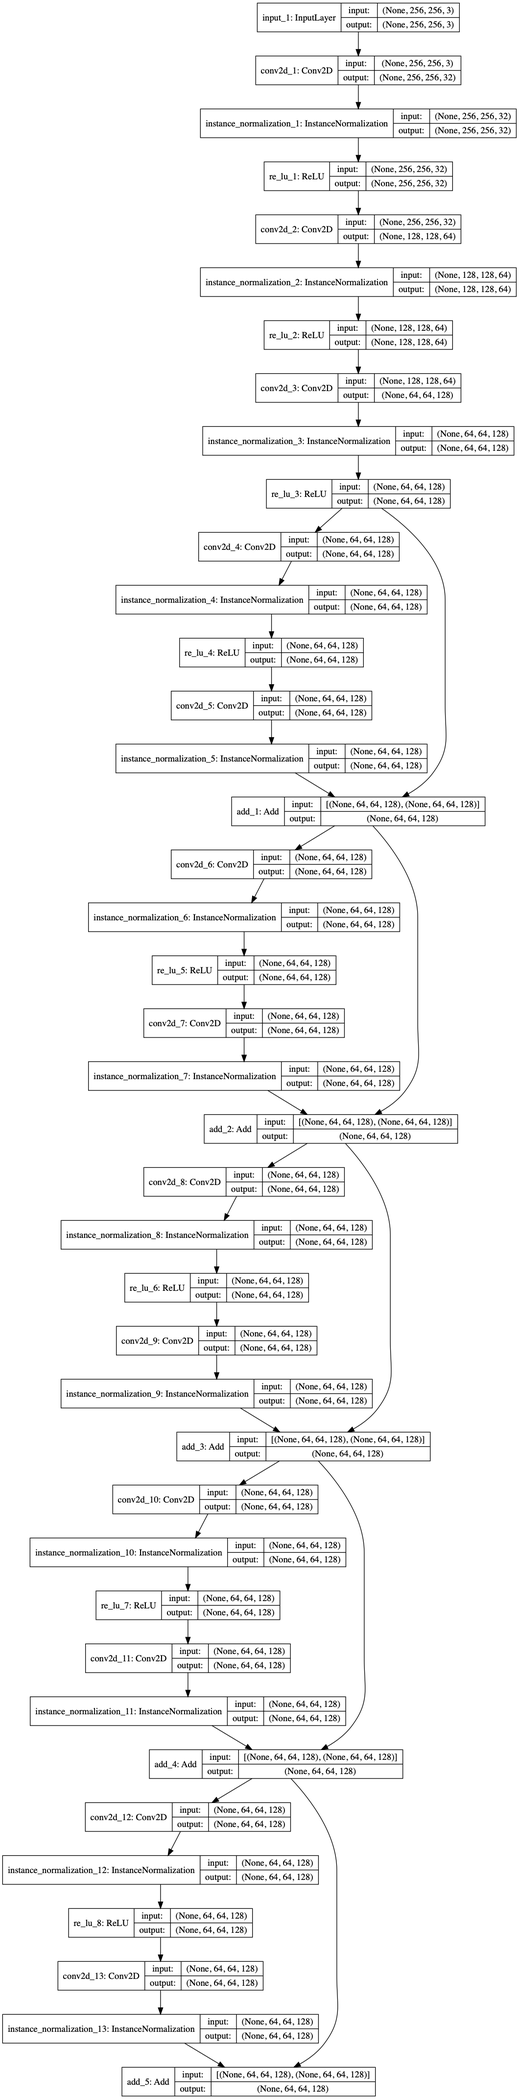
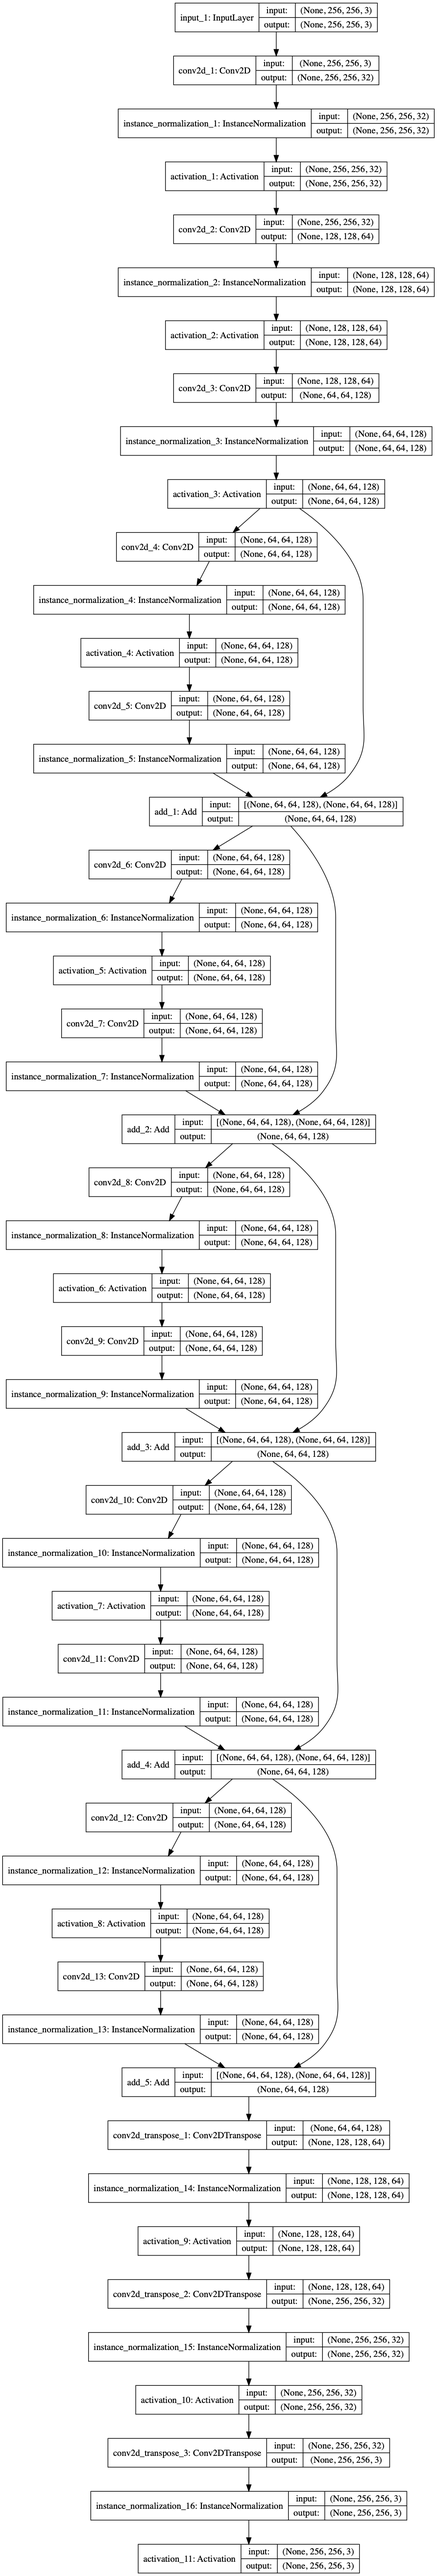
deconv block of transfer net

diff --git a/style_transfer.py b/style_transfer.py
@@ -3,7 +3,7 @@ import numpy as np
 
 from keras.applications import vgg19
 from keras import backend as K
-from keras.layers import Input, Conv2D, ReLU, Add
+from keras.layers import Input, Conv2D, Add, Conv2DTranspose, Activation
 from keras.models import Model
 from keras.utils import plot_model
 from keras_contrib.layers import InstanceNormalization
@@ -36,7 +36,7 @@ def deprocess_image(x):
     return x
 
 
-def downSampling(x, filters, kernel_size, strides, padding="same"):
+def downSampling(x, filters, kernel_size, strides, padding="same", activation="relu"):
     conv = Conv2D(filters=filters,
                   kernel_size=kernel_size,
                   strides=strides,
@@ -46,8 +46,8 @@ def downSampling(x, filters, kernel_size, strides, padding="same"):
         instance_normalized = InstanceNormalization(axis=1)(conv)
     else:
         instance_normalized = InstanceNormalization(axis=3)(conv)
-    relu = ReLU()(instance_normalized)
-    return relu
+    activated = Activation(activation)(instance_normalized)
+    return activated
 
 def residul(x):
     conv1 = Conv2D(filters=128,
@@ -59,7 +59,7 @@ def residul(x):
         instance_normalized1 = InstanceNormalization(axis=1)(conv1)
     else:
         instance_normalized1 = InstanceNormalization(axis=3)(conv1)
-    relu = ReLU()(instance_normalized1)
+    relu = Activation("relu")(instance_normalized1)
     conv2 = Conv2D(filters=128,
                    kernel_size=3,
                    strides=1,
@@ -70,6 +70,19 @@ def residul(x):
     else:
         instance_normalized2 = InstanceNormalization(axis=3)(conv2)
     return Add()([instance_normalized2, x])
+
+def upSampling(x, filters, kernel_size, strides, padding="same", activation="relu"):
+    deconv = Conv2DTranspose(filters=filters,
+                             kernel_size=kernel_size,
+                             strides=strides,
+                             padding=padding,
+                             data_format=K.image_data_format())(x)
+    if K.image_data_format() == 'channels_first':
+        instance_normalized = InstanceNormalization(axis=1)(deconv)
+    else:
+        instance_normalized = InstanceNormalization(axis=3)(deconv)
+    activated = Activation(activation)(instance_normalized)
+    return activated
 
 
 def transform_model():
@@ -88,7 +101,11 @@ def transform_model():
     resi4 = residul(resi3)
     resi5 = residul(resi4)
 
-    transformNet = Model(inputs=input, outputs=resi5)
+    deconv1 = upSampling(resi5, 64, 3, 2)
+    deconv2 = upSampling(deconv1, 32, 3, 2)
+    deconv3 = upSampling(deconv2, 3, 9, 1)
+
+    transformNet = Model(inputs=input, outputs=deconv3)
     plot_model(transformNet, to_file="img/model/transform.png", show_shapes=True)
     return transformNet
 
